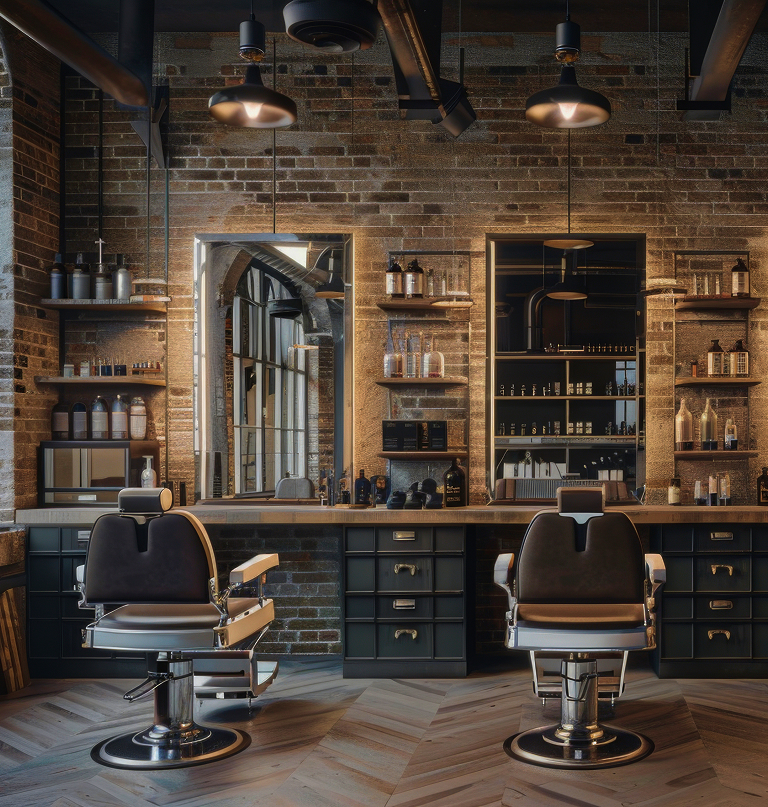
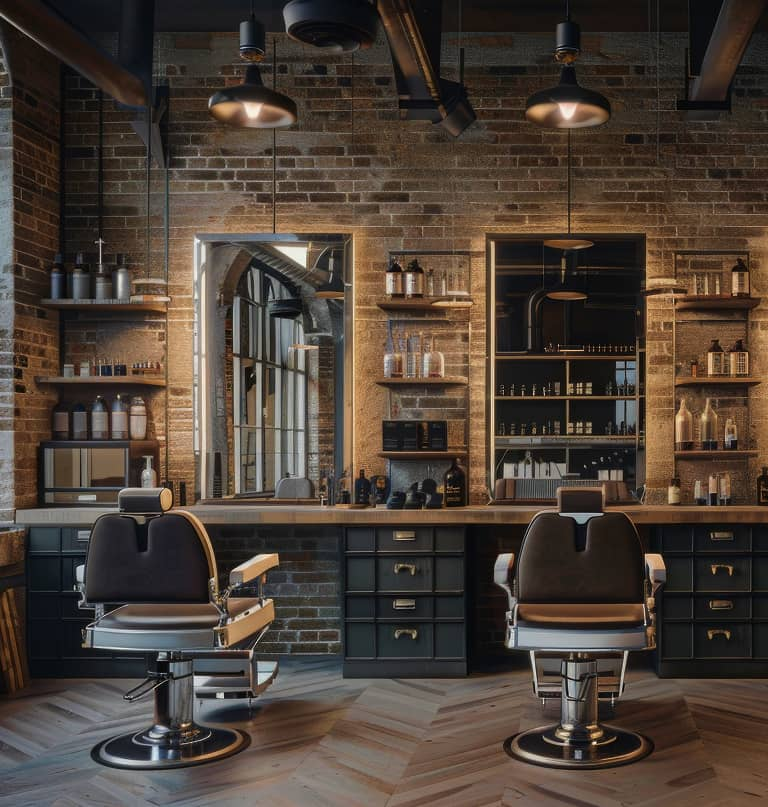
perf: optimize assets and lazy-load heavy dependencies
- Implement dynamic imports for Mapbox GL and Flatpickr
- Remove unused packages (Swiper, Plyr) from package.json
- Compress and optimize desktop and mobile background images
- Improve font loading in head.html

diff --git a/src/js/components/dataPicker.js b/src/js/components/dataPicker.js
@@ -1,39 +1,48 @@
-import flatpickr from "flatpickr";
-import confirmDatePlugin from "flatpickr/dist/plugins/confirmDate/confirmDate";
-
 export function initDatePicker() {
   const dateInput = document.getElementById("appointment-date");
   if (!dateInput) return;
 
-  const maxSelectableDate = new Date();
-  maxSelectableDate.setDate(maxSelectableDate.getDate() + 30);
+  const handleFirstInteraction = async () => {
+    const [{ default: flatpickr }, { default: confirmDatePlugin }] =
+      await Promise.all([
+        import("flatpickr"),
+        import("flatpickr/dist/plugins/confirmDate/confirmDate"),
+      ]);
 
-  flatpickr(dateInput, {
-    enableTime: true,
-    dateFormat: "m/d/Y h:i K",
-    minDate: "today",
-    // maxDate: maxSelectableDate,
-    monthSelectorType: "static",
-    minuteIncrement: 30,
-    disableMobile: true,
+    const maxSelectableDate = new Date();
+    maxSelectableDate.setDate(maxSelectableDate.getDate() + 30);
 
-    plugins: [
-      new confirmDatePlugin({
-        confirmText: "OK",
-        showAlways: false,
-        theme: "dark",
-      }),
-    ],
+    const fpInstance = flatpickr(dateInput, {
+      enableTime: true,
+      dateFormat: "m/d/Y h:i K",
+      minDate: "today",
+      // maxDate: maxSelectableDate,
+      monthSelectorType: "static",
+      minuteIncrement: 30,
+      disableMobile: true,
 
-    onClose: (selectedDates, dateStr, instance) => {
-      const form = instance.element.form;
-      const nextElement = form ? form.querySelector("textarea") : null;
+      plugins: [
+        new confirmDatePlugin({
+          confirmText: "OK",
+          showAlways: false,
+          theme: "dark",
+        }),
+      ],
 
-      if (nextElement) {
-        setTimeout(() => {
-          nextElement.focus();
-        }, 10);
-      }
-    },
-  });
+      onClose: (selectedDates, dateStr, instance) => {
+        const form = instance.element.form;
+        const nextElement = form ? form.querySelector("textarea") : null;
+
+        if (nextElement) {
+          setTimeout(() => {
+            nextElement.focus();
+          }, 10);
+        }
+      },
+    });
+
+    fpInstance.open();
+  };
+
+  dateInput.addEventListener("focus", handleFirstInteraction, { once: true });
 }

diff --git a/src/js/services/lazyMapLoader.js b/src/js/services/lazyMapLoader.js
@@ -7,7 +7,8 @@ export const initMaps = () => {
 
   const observer = new IntersectionObserver(
     (entries, observer) => {
-      entries.forEach((entry) => {
+      entries.forEach(async (entry) => {
+        
         if (entry.isIntersecting) {
           const container = entry.target;
           const type = container.dataset.mapType;
@@ -15,7 +16,7 @@ export const initMaps = () => {
           if (type === "iframe") {
             initIframeMap(container);
           } else if (type === "custom") {
-            initCustomMap(container);
+            await initCustomMap(container); 
           }
 
           observer.unobserve(container);

diff --git a/src/js/components/customMap.js b/src/js/components/customMap.js
@@ -1,7 +1,9 @@
-import mapboxgl from "mapbox-gl";
+// import mapboxgl from "mapbox-gl";
 
 export const initCustomMap = (container) => {
   const { mapLat, mapLng } = container.dataset;
+
+  const mapboxgl = (await import("mapbox-gl")).default;
 
   mapboxgl.accessToken = import.meta.env.VITE_MAPBOX_TOKEN;
 

diff --git a/src/html/components/head.html b/src/html/components/head.html
@@ -25,4 +25,5 @@
 
   <link rel="icon" type="image/png" href="favicon.png" />
 
+
 </head>
